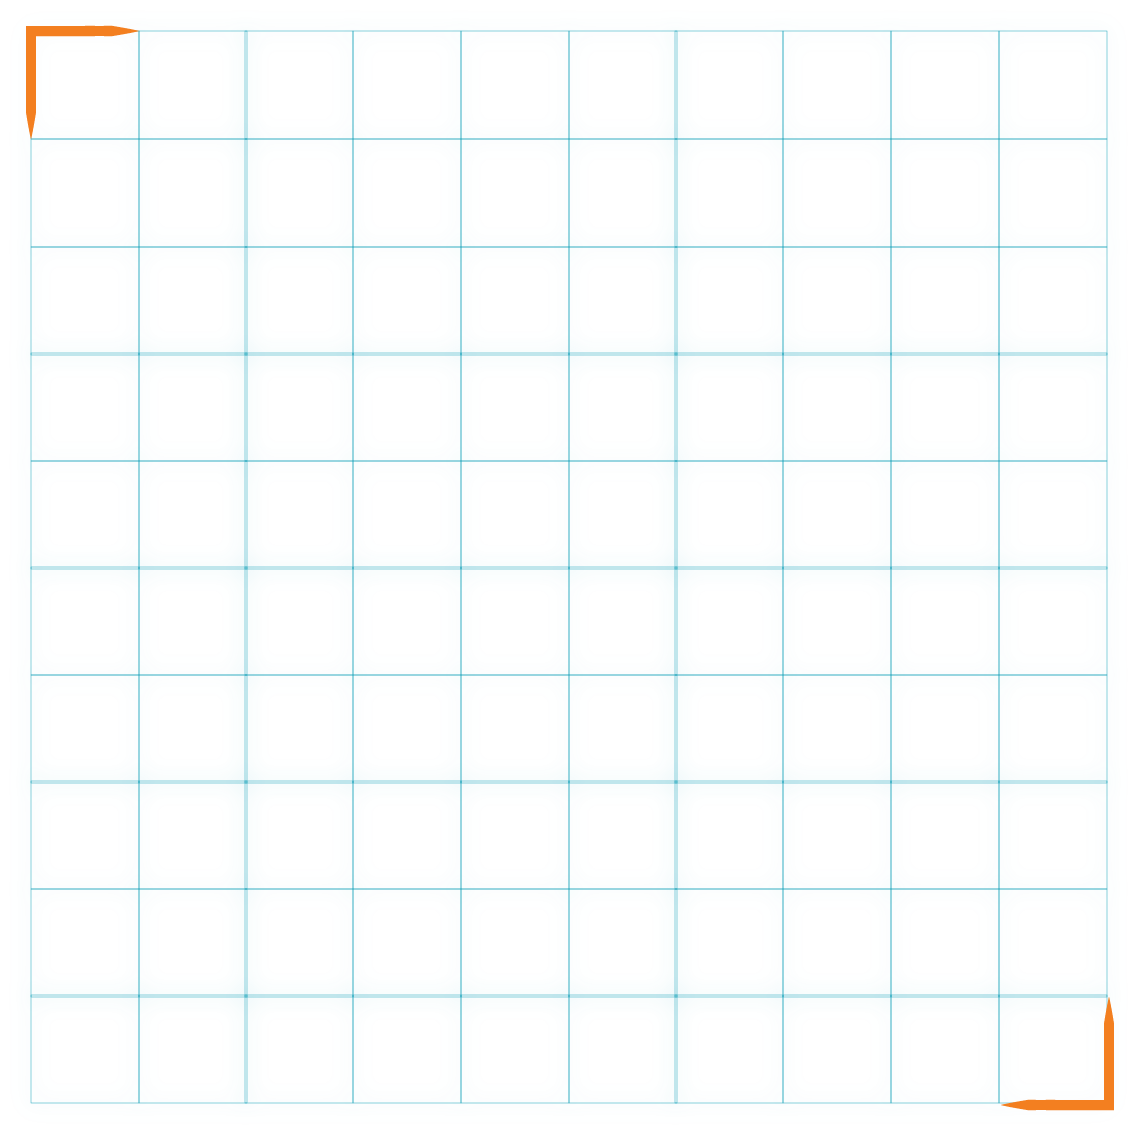
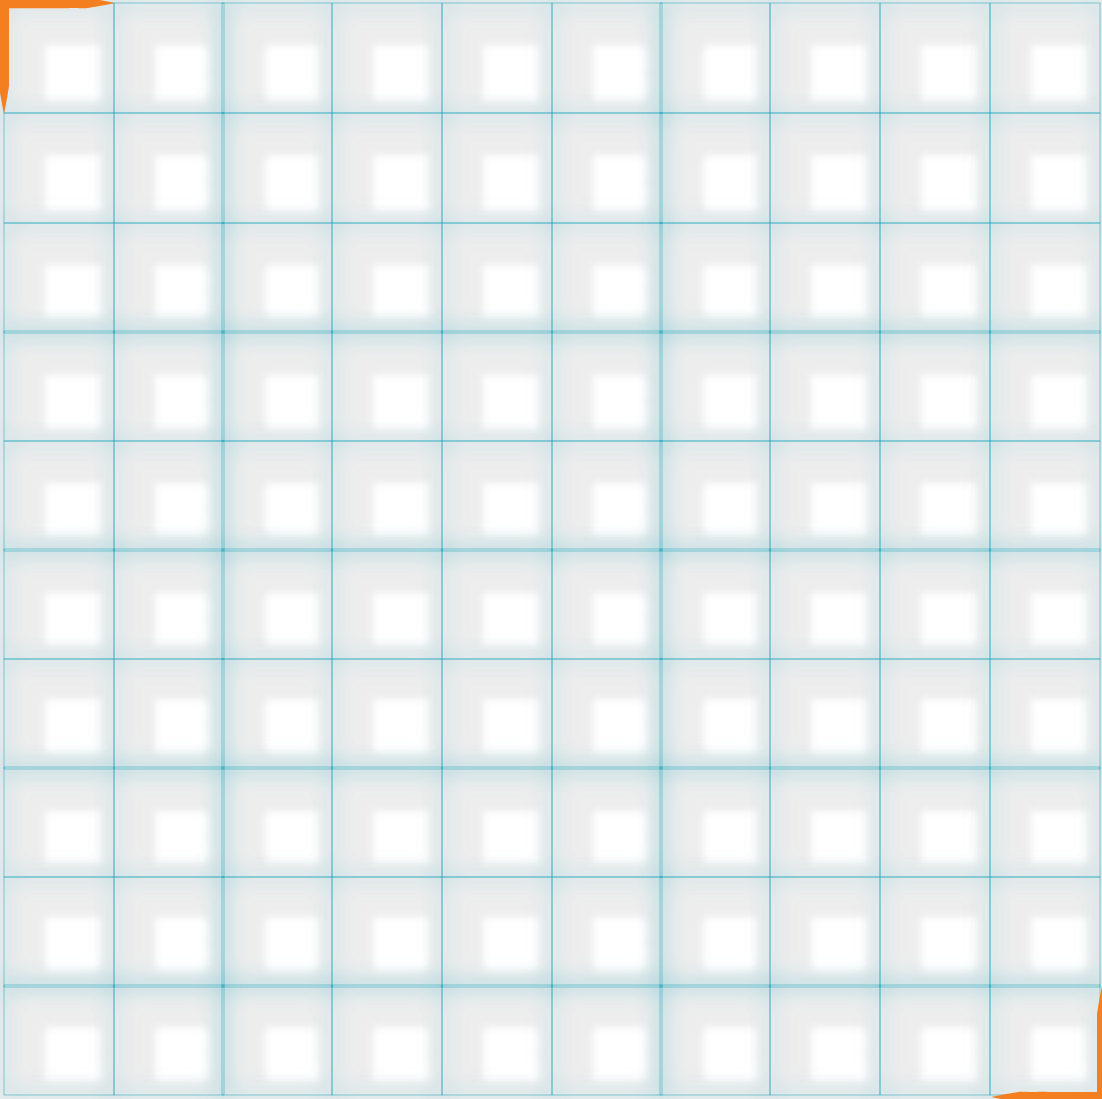
Implement Clamped movement fot the Ships

diff --git a/src/index.js b/src/index.js
@@ -24,13 +24,18 @@ let startButton;
 let logoImage;
 let playerGrid;
 let opponentGrid;
-let playerShips;
-let opponentShips;
+let playerShips = {};
+let opponentShips = {};
 let tileUnit = 108;
+let initPlayerShips;
+let initOpponentShips;
+let shipSpaces = { carrier: 5, battleship: 4, cruiser: 3, submarine: 3, destroyer: 2 };
+let animateShipCounter = 0;
+let playerTileMap = {};
+let opponentTileMap = {};
 
 //FUNCTIONS
-let createButton = (texture) =>
-{
+let createButton = (texture) => {
   let textureButton = PIXI.Texture.from(texture);
   let button = new PIXI.Sprite(textureButton);
   button.anchor.set(0.5);
@@ -41,13 +46,11 @@ let createButton = (texture) =>
 
 
 //FUNCTIONS
-let switchContainer = (view = "main") =>
-{
+let switchContainer = (view = "main") => {
   titleScreen.visible = false;
   mainScreen.visible = false;
   console.log("view is ", view);
-  switch(view)
-  {
+  switch (view) {
     case "title":
       titleScreen.visible = true;
       break;
@@ -58,8 +61,8 @@ let switchContainer = (view = "main") =>
 }
 
 
-let connectWallet = async() => {
-  if(window.ethereum) {
+let connectWallet = async () => {
+  if (window.ethereum) {
     window.web3 = new Web3(window.ethereum)
     await window.ethereum.enable()
   }
@@ -79,67 +82,178 @@ let tileClicked = (tileNumber) => {
   alert("clicked on " + tileNumber);
 }
 
-let setupGrid = (position) => {
+let setupGrid = (position, forPlayer) => {
   let grid = new PIXI.Sprite.from("/images/grid.png");
-  grid.width = 500;
-  grid.height = 500;
+  grid.width = 400;
+  grid.height = 400;
   grid.x = position.x;
   grid.y = position.y;
   grid.anchor.set(0.5);
 
+  
   var tileId = 1;
-  for(var i = 0; i < 10; i++)
-  {
-    for(var j = 0; j < 10; j++)
-    {
-      (function(tId) {
+  for (var i = 0; i < 10; i++) {
+    for (var j = 0; j < 10; j++) {
+      (function (tId) {
         let frame = new PIXI.Graphics();
-        frame.beginFill(0x00000);
-        frame.lineStyle({ color: 0xffffff, width: 1.5, alignment: 0, alpha:0.5 });
+        frame.beginFill(0x00FF00);
+        frame.alpha = 0;
+        frame.lineStyle({ color: 0xffffff, width: 1.5, alignment: 0, alpha: 0 });
         frame.drawRect(0, 0, tileUnit, tileUnit);
         frame.interactive = true;
         frame.buttonMode = true;
-        frame.on("pointerup", ()=>tileClicked(tId));
+        frame.on("pointerup", () => tileClicked(tId));
         frame.position.set((tileUnit * j) - (tileUnit * 5), tileUnit * i - (tileUnit * 5));
         grid.addChild(frame);
-       })(tileId)
-       tileId++;
+        if(forPlayer){
+          playerTileMap[tId] = frame;
+        }else{
+          opponentTileMap[tId] = frame;
+        }
+      })(tileId)  
+      tileId++;
     }
   }
   return grid;
 }
 
-let checkWalletConntection = () =>
-{
-  if(!web3Accounts || web3Accounts.length == 0){
+let checkWalletConntection = () => {
+  if (!web3Accounts || web3Accounts.length == 0) {
     console.log("not connected");
     startButton.visible = false;
     connnectWalletButton.visible = true;
-  }else{
+  } else {
     console.log("connected")
     startButton.visible = true;
     connnectWalletButton.visible = false;
   }
 }
 
-let setupShips = (forPlayer) =>{
-  let battleship = PIXI.Sprite.from("/images/battleship.png");
-  let carrier = PIXI.Sprite.from("/images/carrier.png");
-  let alpha = 0.5;
-  battleship.alpha = alpha;
-  carrier.alpha = alpha;
-  playerShips = {};
-  playerShips.battleship = battleship;
-  playerShips.carrier = carrier;
-  carrier.x -= tileUnit
+let createShip = (shipType) => {
+  let path = `/images/ships/${shipType}.png`;
+  let ship = PIXI.Sprite.from(path);
+  ship.alpha = 0.5;
+  ship.interactive = true;
+  ship.anchor.set(0.5)
+  ship.on('mousedown', (e) => onDragStart(e, ship))
+    .on('touchstart', (e) => onDragStart(e, ship))
+    .on('mouseup', (e) => onDragEnd(e, ship))
+    .on('mouseupoutside', (e) => onDragEnd(e, ship))
+    .on('touchend', (e) => onDragEnd(e, ship))
+    .on('touchendoutside', (e) => onDragEnd(e, ship))
+    .on('mousemove', (e) => onDragMove(e, ship))
+    .on('touchmove', (e) => onDragMove(e, ship));
+  return ship;
+}
 
-  playerGrid.addChild(battleship);
-  playerGrid.addChild(carrier);
+let setupShips = (forPlayer) => {
+
+  let grid;
+  let ships;
+
+  let battleship = createShip("battleship");
+  let carrier = createShip("carrier");
+  let cruiser = createShip("cruiser");
+  let destroyer = createShip("destroyer");
+  let submarine = createShip("submarine");
+
+
+  //Set position
+  battleship.x -= tileUnit * .5;
+  carrier.x -= tileUnit * 1.5;
+  cruiser.x -= tileUnit * 2.5;
+  destroyer.x -= tileUnit * 3.5;
+  submarine.x -= tileUnit * 4.5;
+
+
+  if (forPlayer) {
+    initPlayerShips = true;
+    grid = playerGrid;
+    ships = playerShips;
+  } else {
+    initOpponentShips = true;
+    grid = opponentGrid;
+    ships = opponentShips;
+  }
+  //Assign Ships
+  ships.battleship = battleship;
+  ships.carrier = carrier;
+  ships.cruiser = cruiser;
+  ships.destroyer = destroyer;
+  ships.submarine = submarine;
+
+  //Attach to grid
+  grid.addChild(battleship);
+  grid.addChild(carrier);
+  grid.addChild(cruiser);
+  grid.addChild(destroyer);
+  grid.addChild(submarine);
 
 }
 
 
+let animateShips = (delta) => {
+  if (initPlayerShips) {
+    animateShipCounter += delta;
+    //playerShips.battleship.height = (shipSpaces.battleship * tileUnit) + Math.cos(elapsed * 100000) *5;
+    //playerShips.battleship.width = tileUnit + Math.cos(elapsed * 100000) *5;
+    playerShips.battleship.y += Math.cos(animateShipCounter * 100000) / 10;
+    playerShips.carrier.y += Math.cos(animateShipCounter * 100000) / 10;
+    playerShips.cruiser.y += Math.cos(animateShipCounter * 100000) / 10;
+    playerShips.destroyer.y += Math.cos(animateShipCounter * 100000) / 10;
+    playerShips.submarine.y += Math.cos(animateShipCounter * 100000) / 10;
+  }
 
+
+}
+
+let onDragStart = (e, obj) => {
+  //obj.anchor.set(0.5)
+  obj.data = e.data;
+  obj.alpha = 0.2;
+  obj.dragging = true;
+}
+
+let onDragMove = (e, obj) => {
+  if (obj.dragging) {
+    var newPosition = obj.data.getLocalPosition(obj.parent);
+    let tilePosition = getTileFromPosition(newPosition, 10, 10);
+    if(newPosition.x >520 || newPosition.y >520 || newPosition.x<-520 || newPosition.y<-520) return;
+    console.log("Player Tile Map",playerTileMap);
+    console.log("Opponent Tile Map",opponentTileMap);
+
+    playerTileMap[tilePosition].alpha = 0.5;
+    console.log("New Position", newPosition);
+    console.log("tile", tilePosition);
+
+
+    obj.position.x = playerTileMap[tilePosition].x + (tileUnit / 2);
+    obj.position.y = playerTileMap[tilePosition].y + (tileUnit / 2);
+  
+ 
+  }
+}
+
+
+let onDragEnd = (e, obj) => {
+  obj.alpha = 0.5;
+  obj.dragging = false;
+  obj.data = null;
+}
+
+let getTileFromPosition = ({ x, y }, tX, tY) => {
+  x = Math.round(x / 102)
+  y = Math.round(y / 102)
+
+  console.log("======", { x, y })
+
+  x = x >= 0 ? x + (tX / 2) : x + (tX / 2) + 1
+  y = y >= 0 ? y + (tY / 2) : y + (tY / 2) + 1
+
+
+
+  return ((x * y) + (tX - x) * (y - 1))
+}
 
 
 
@@ -148,7 +262,7 @@ let setupShips = (forPlayer) =>{
 
 
 //Initialize Pixi
-const app = new PIXI.Application({autoResize:true });
+const app = new PIXI.Application({ autoResize: true });
 document.body.appendChild(app.view);
 
 //Set to full screen
@@ -171,48 +285,49 @@ logoImage.anchor.set(0.5)
 
 //Setup the Title Screeen
 titleBackground = new PIXI.Graphics();
-titleBackground.beginFill(0x000000); 
-titleBackground.drawRect(0,0, app.view.width, app.view.height);
+titleBackground.beginFill(0x000000);
+titleBackground.drawRect(0, 0, app.view.width, app.view.height);
 titleScreen.addChild(titleBackground);
 titleScreen.addChild(logoImage);
 
 //Setup the Menu Screen 
 mainScreenBackground = new PIXI.Graphics();
-mainScreenBackground.beginFill(0x00000);
-mainScreenBackground.drawRect(0,0,app.view.width, app.view.height);
+mainScreenBackground.beginFill(0x0b1028);
+mainScreenBackground.drawRect(0, 0, app.view.width, app.view.height);
 mainScreen.addChild(mainScreenBackground);
 
 //setup Grids
-playerGrid = setupGrid({x: (app.view.width / 2) - 300, y: 400});
-opponentGrid = setupGrid({x: (app.view.width / 2) + 300, y: 400});
+playerGrid = setupGrid({ x: (app.view.width / 2) - 220, y: 400 }, true);
+opponentGrid = setupGrid({ x: (app.view.width / 2) + 220, y: 400 }, false);
 mainScreen.addChild(playerGrid);
 mainScreen.addChild(opponentGrid);
 
-//Setup Ships
+//Set up Ships for Player
 setupShips(true);
+
 
 //Setup the text
 titleText = new PIXI.Text("Blockchain Battleship");
 titleText.anchor.set(0.5);
-titleText.x = app.view.width/2;
-titleText.y = app.view.height/2;
+titleText.x = app.view.width / 2;
+titleText.y = app.view.height / 2;
 titleText.visible = false;
-titleText.style = new PIXI.TextStyle({ fill: 0xFFFFF, fontSize:40, fontFamily: 'Arial', fontStyle: 'bold', stroke: '0xFFFFF', strokeThickness: 3});
+titleText.style = new PIXI.TextStyle({ fill: 0xFFFFF, fontSize: 40, fontFamily: 'Arial', fontStyle: 'bold', stroke: '0xFFFFF', strokeThickness: 3 });
 titleScreen.addChild(titleText);
 
 //Setup Connect Wallet Button
 connnectWalletButton = createButton("/images/button_connect-wallet.png");
 connnectWalletButton.x = app.view.width / 2;
-connnectWalletButton.y = (app.view.height / 2) + 100 ;
-connnectWalletButton.on("pointerup", ()=>connectWallet());
+connnectWalletButton.y = (app.view.height / 2) + 100;
+connnectWalletButton.on("pointerup", () => connectWallet());
 titleScreen.addChild(connnectWalletButton);
 
 
 //Setup Start Button
 startButton = createButton("/images/button_start.png");
 startButton.x = app.view.width / 2;
-startButton.y = (app.view.height / 2) + 100 ;
-startButton.on("pointerup", ()=>switchContainer("main"));
+startButton.y = (app.view.height / 2) + 100;
+startButton.on("pointerup", () => switchContainer("main"));
 titleScreen.addChild(startButton);
 
 
@@ -260,12 +375,13 @@ ticker.speed = 0.0000004;
 ticker.start();
 
 ticker.add(checkWalletConntection);
+ticker.add(animateShips);
 
 ReactDOM.render(
-<React.StrictMode>
+  <React.StrictMode>
 
-</React.StrictMode>,
-document.getElementById('root')
+  </React.StrictMode>,
+  document.getElementById('root')
 );
 
 // If you want to start measuring performance in your app, pass a function
